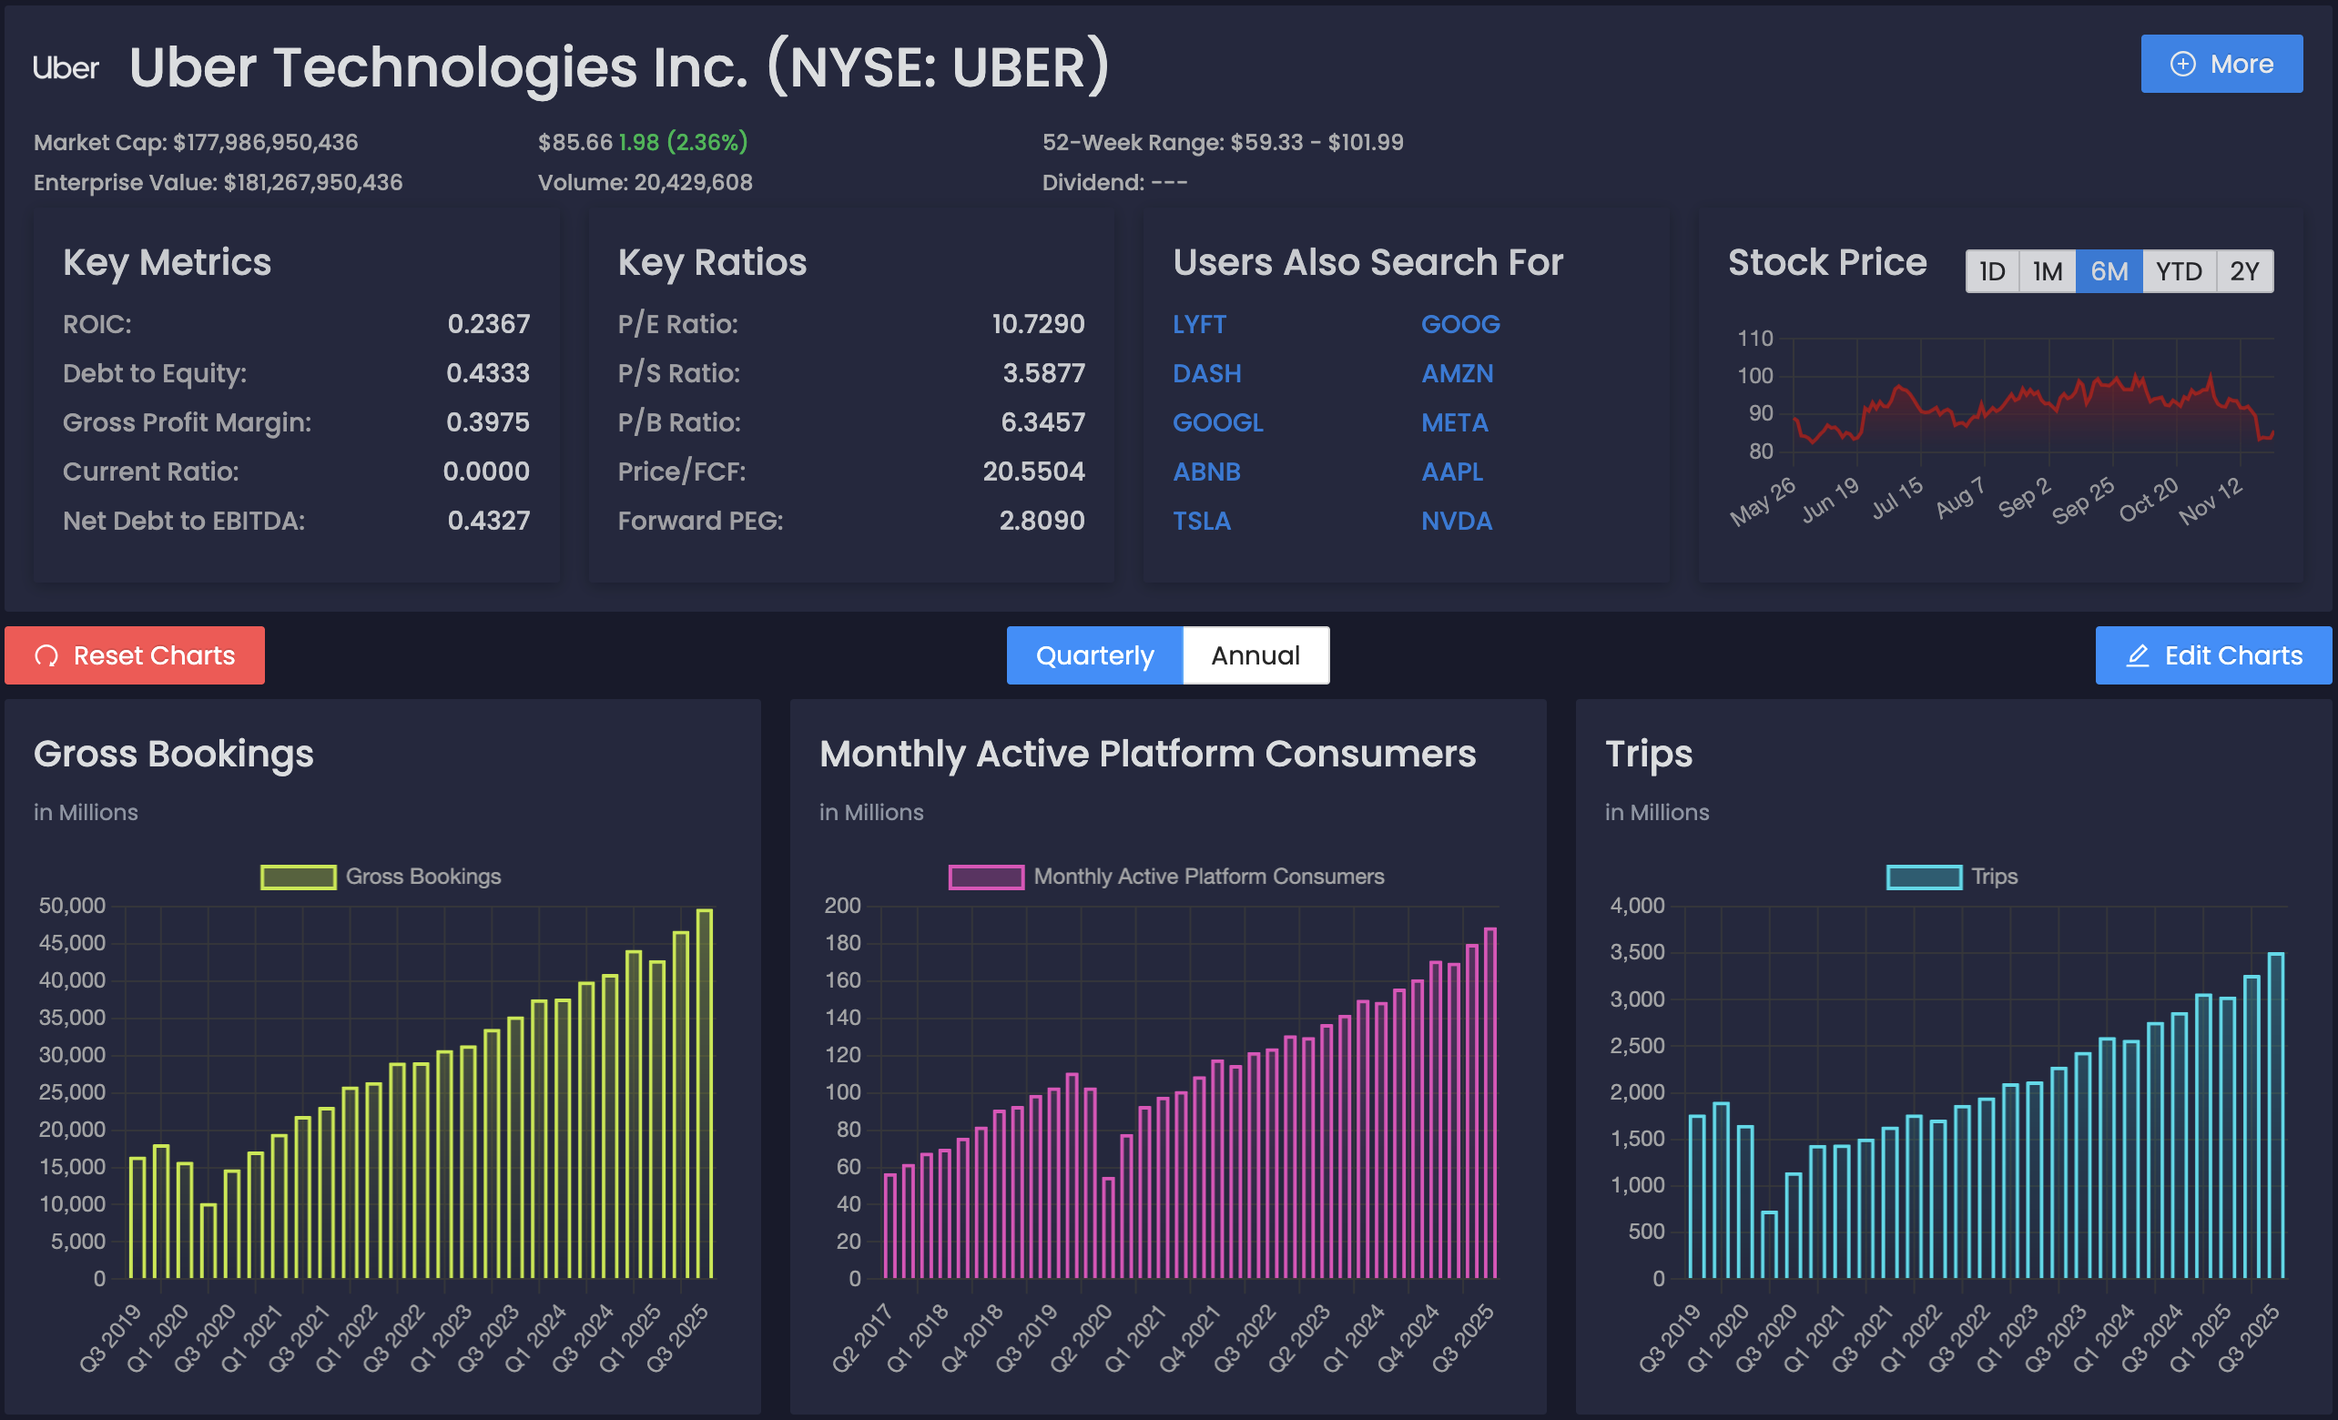
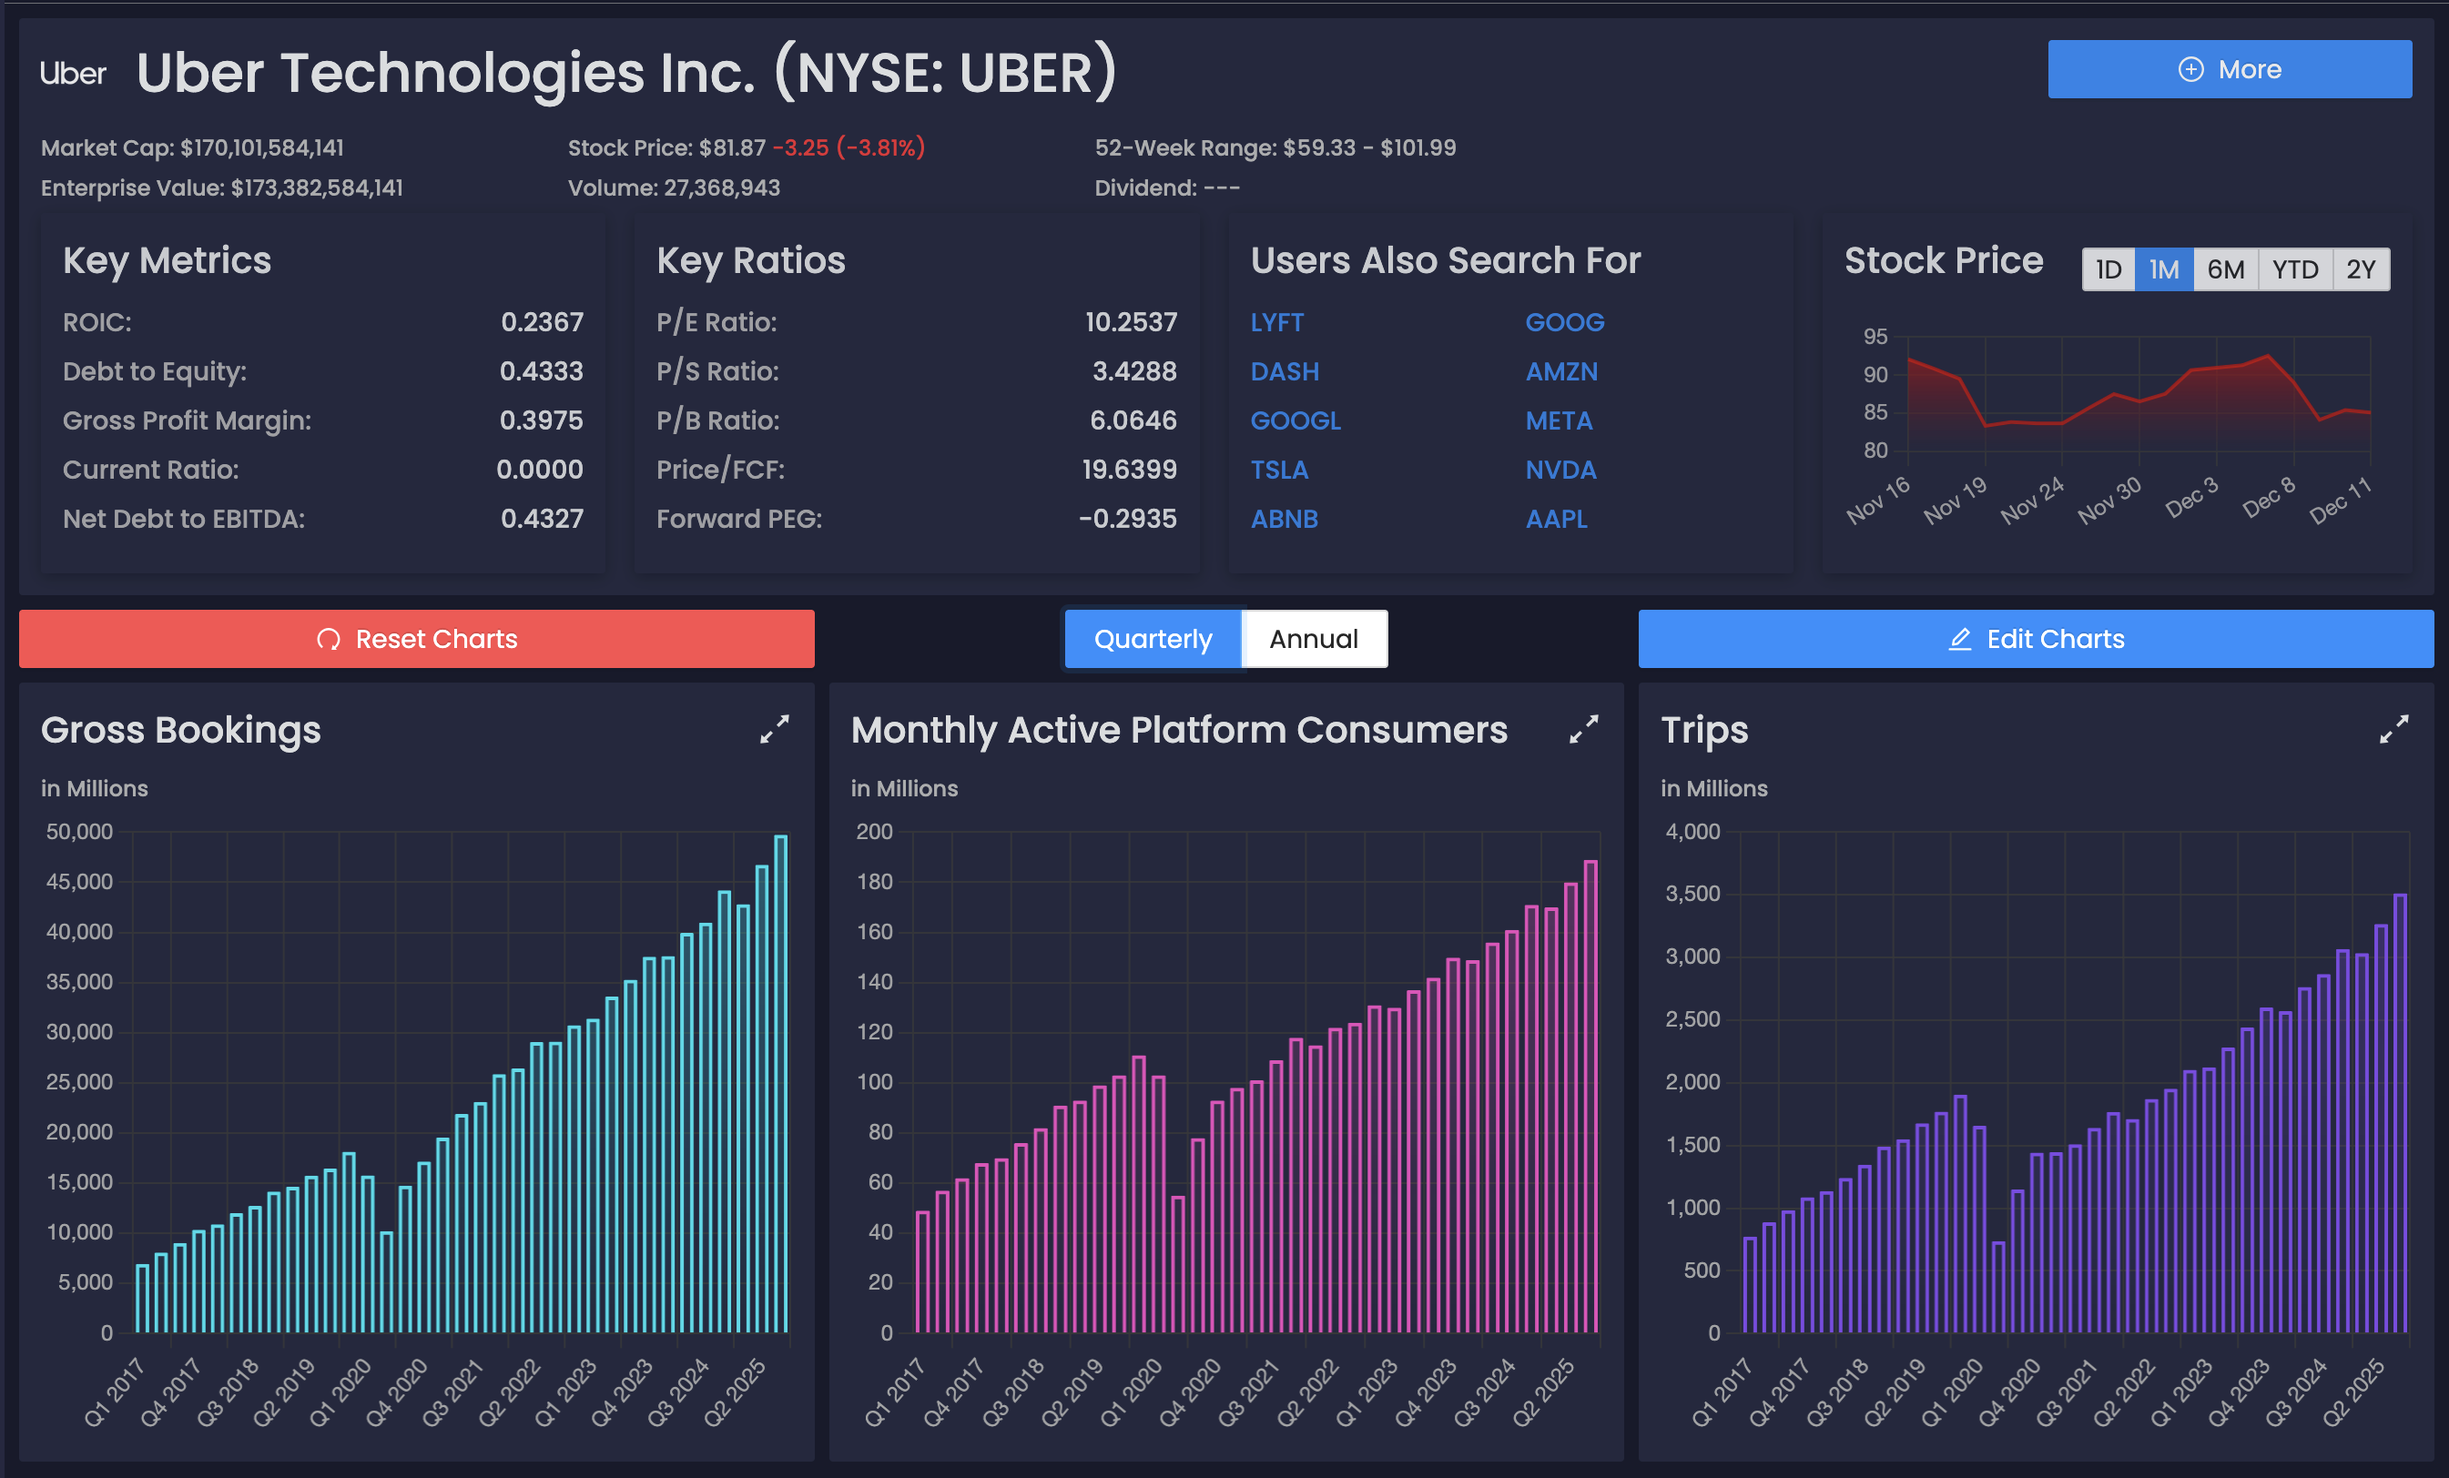
feat: for company metric charts with just one metric, set legend display to false

diff --git a/client-ng/src/app/features/company-dashboard/company-profile/company-profile.component.html b/client-ng/src/app/features/company-dashboard/company-profile/company-profile.component.html
@@ -7,7 +7,7 @@
     }
     {{ stock()?.companyName }} ({{ companyProfile()?.exchange }}: {{ stock()?.ticker }})
   </h1>
-  <button nz-button nzType="primary">
+  <button class="more-button" nz-button nzType="primary">
     <nz-icon nzType="plus-circle" nzTheme="outline" />
     More
   </button>
@@ -16,6 +16,7 @@
 <div class="grid grid-cols-3 gap-y-0 w-2/3">
   <h2 class="text-xs">Market Cap: ${{ companyProfile()?.marketCap | number : '1.0-0' }}</h2>
   <h2 class="text-xs">
+    Stock Price:
     ${{ companyProfile()?.price | number : '1.2-2' }}
     <span [class]="(companyProfile()?.change ?? 0) >= 0 ? 'text-green-500' : 'text-red-500'">
       {{ companyProfile()?.change | number : '1.2-2' }}

diff --git a/client-ng/src/app/shared/components/company-metric-chart/company-metric-chart.component.ts b/client-ng/src/app/shared/components/company-metric-chart/company-metric-chart.component.ts
@@ -199,6 +199,9 @@ export class CompanyMetricChartComponent implements AfterViewInit {
             title: {
               text: `${ this.ticker() } ${ metricNameRead }`,
               display: false
+            },
+            legend: {
+              display: false
             }
           },
           // width / height

diff --git a/client-ng/src/app/features/company-dashboard/company-profile/company-profile.component.scss b/client-ng/src/app/features/company-dashboard/company-profile/company-profile.component.scss
@@ -1,3 +1,7 @@
 .ant-card {
   box-shadow: 0 2px 8px rgba(0, 0, 0, 0.3);
 }
+
+.more-button {
+  width: 200px;
+}

diff --git a/README.md b/README.md
@@ -1,5 +1,5 @@
 # TradeLens
----
+
 #### All of your financial market data and investing needs in one place, for you to be very profitable in the long run. Zoom in on the information that actually matters.
 
 ##### Future implementation ideas
